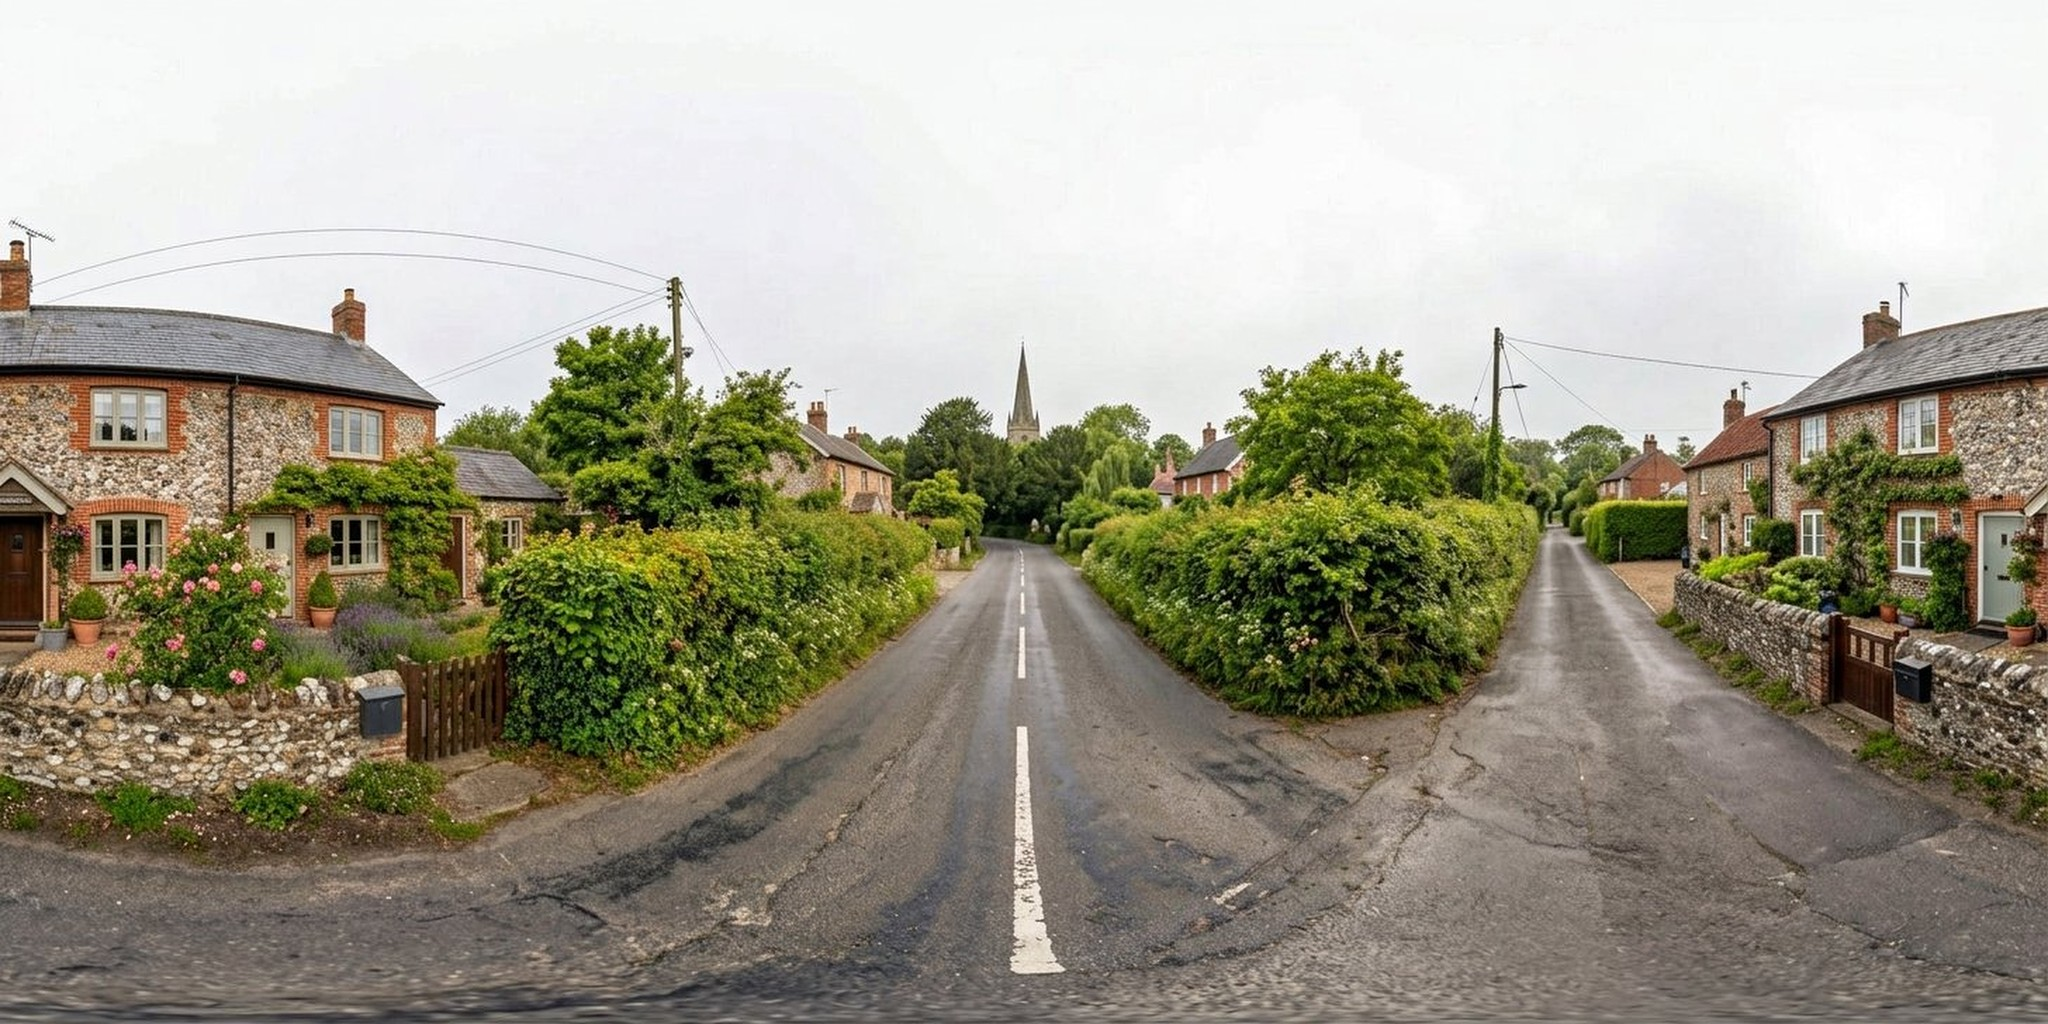
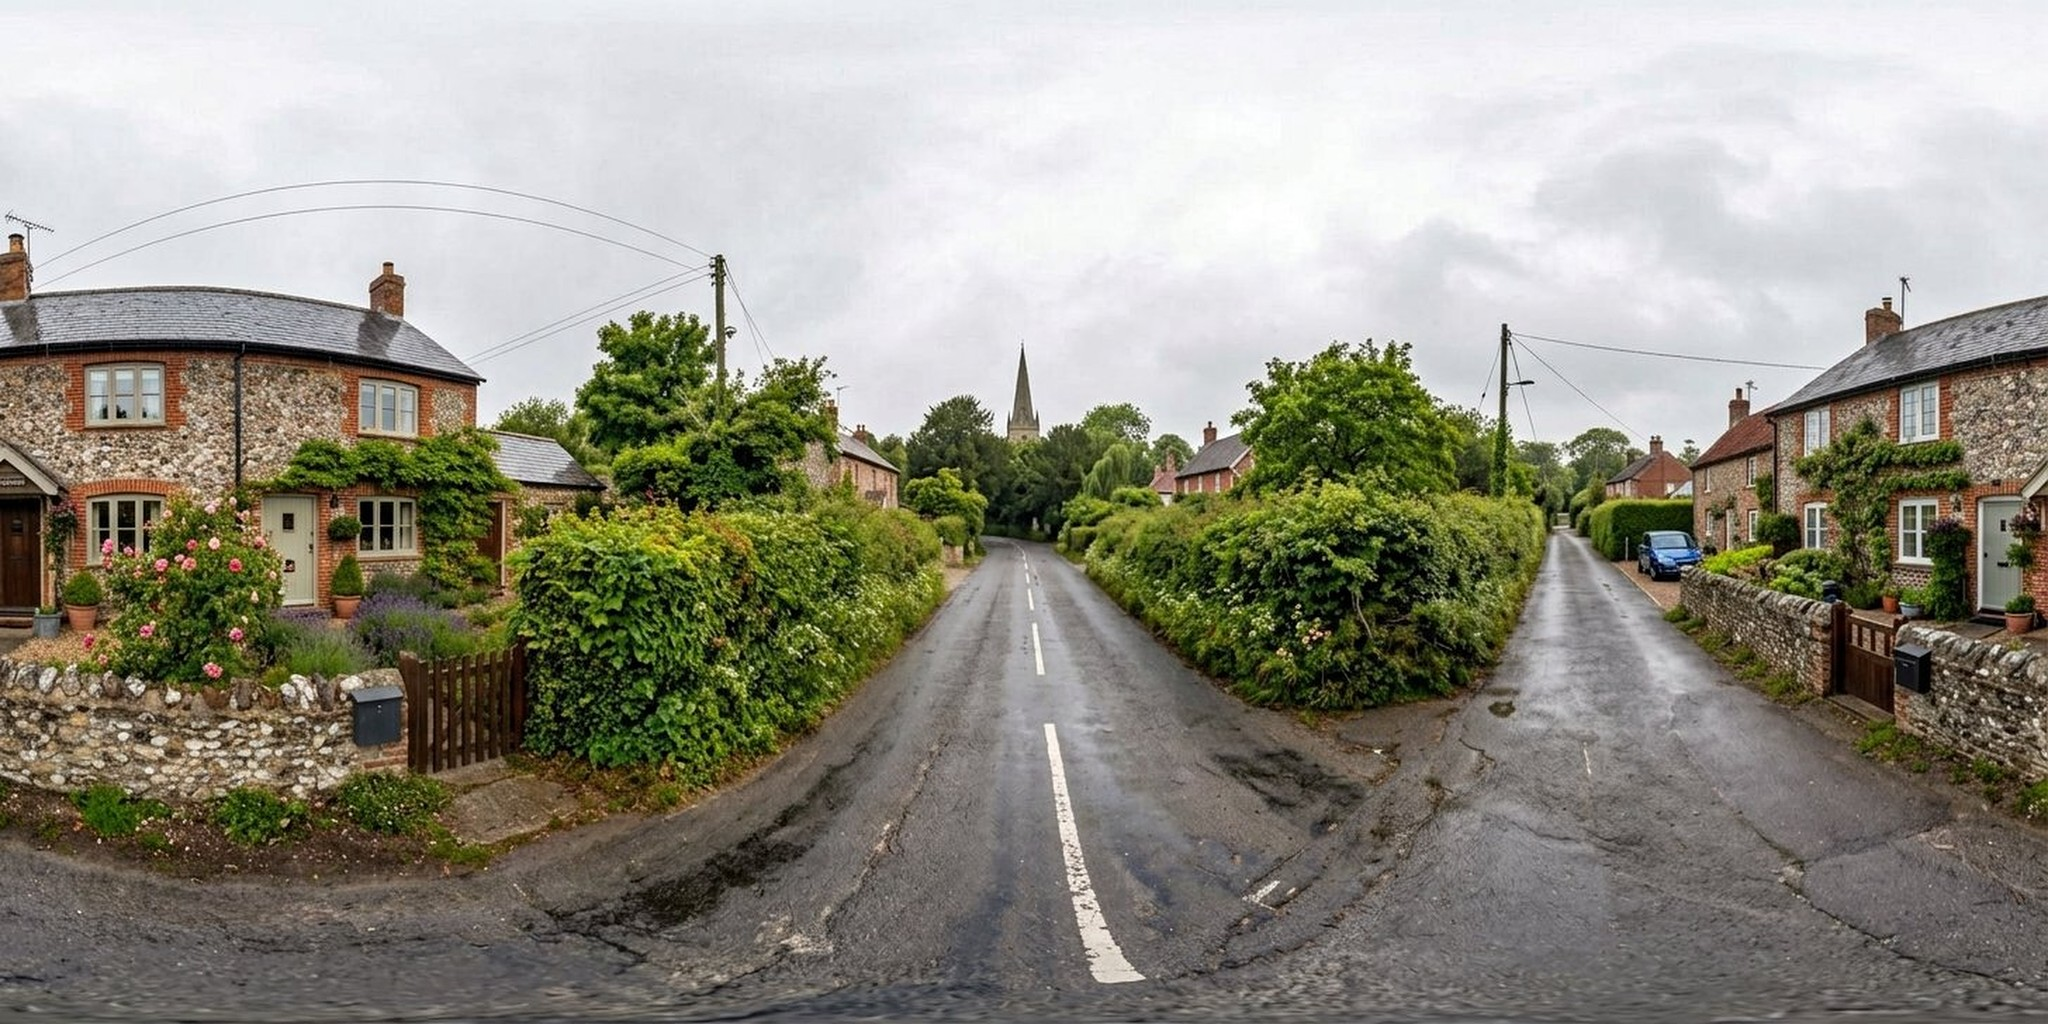
willow iteration 18: point-1 sub-strides restored, n244 re-fix, point-2 junction fill started

diff --git a/finx_genmap.md b/finx_genmap.md
@@ -39,6 +39,7 @@ parallax. Same overcast daylight, no people, no text."
 | 15 | point_correct_1 = n1 (willow_060, Willow Street 60 m) | S → n82; N → n114; W-A → West Bend chain | **7** | n162 (6.3 m S), n226 (7.5 m N), n244 (6.9 m W/A), n124 (6.9 m W ← n244), n245 (6.9 m E ← n44), n246 (6.9 m W ← n44), n247 (6.9 m E ← n13) | ✓ n244→n124 visual: same flint cottage/rose gate/spire, correct parallax |
 | 16 | ring cells around anchors n82/n59/n83/n35/n86/n36/n88 (streetside) + n246/n256/n312 (lane seams) | S chain ×7 + W seams ×2 + E seam ×1 | **10** | n125 (6.9 m W ← n246) — closes the n1–n13 seam; n130 (6.9 m W ← n256, Green Road); n158 (6.9 m E ← n312, Meadow Rise); n163 (6.3 m S ← n82), n164 (S ← n59), n165 (S ← n83), n166 (S ← n35), n171 (S ← n86), n174 (S ← n36), n175 (S ← n88) | ✓ n163←n82 visual: same willow, church tower, cottages. ⚠ n125 drifted to an open-meadow look — RE-CHECK against n246/n247 (regenerate if it offends) |
 | 17 | USER OVERRIDE: supersede ring-resume — go back to point_correct_1 and add MORE steps to the +x chains; PLUS user anti-drift audit command | 4 m sub-stride stage added to densify (637 nodes / 636 edges / max hop 3.75 m, all earlier imgs unchanged); OpenCV auditor `tools-render/chain-audit.py` (collapsed-branch walkable pairs: HSV correl + sky-band Δ + exposure Δ) ran over all frames: 145 pairs, worst breaks fixed | **10 regenerations** | n119←n117, n124←n246, n116←n115, n244←n1, n82←n162, n90←n62, n91←n63, n97←n66, n93←n64, n17←n78 | ✓ breaks n11↔n119 (−0.68), n124↔n245 (−0.32), n63↔n91, n82↔n162, n97-family all cleared. Residual offenders: n3↔n45 (−0.654), n9↔n116 (canopy-vs-open false-positive risk + palette), n1↔n244 (still −0.146, skyΔ 83 — regenerate n244 again next turn), n37↔n91, n4↔n94 |
+| 18 | finish audit-fix queue, then point_correct_2 (n2, green junction) +x fill | point-1 sub-strides restored + n244 re-fix with hard sky lock; point-2 north chain n335..n332 + west knot n510 | **10** | n320←n1, n321←n162, n322←n82, n323←n163 (3.1 m sub-strides); n244←n1 (re-fix #2); n335←n2, n334←n169, n333←n85, n332←n168 (point-2 north chain); n510←n2 (point-2 A-branch 3.4 m W) | ⚠ audit: n335 itself drifted (−0.29, skyΔ 74) — queued for pass 2; n320↔n162 flagged 0.06; n3↔n45 (−0.654) still open; rest normalized |
 
 ## Anti-drift rule (user directive, permanent)
 
@@ -60,4 +61,4 @@ parallax. Same overcast daylight, no people, no text."
 
 ## Cursor
 
-`anchor=point_correct_1 +x chains EXPANDED (4 m sub-strides live: hops now 3.1–3.75 m). Iteration 18 queue: (1) regenerate n320..n323 / n448..n451 / n486..n487 sub-stride frames [LOST in a workspace reset — 4 m graphs regenerated, frames still missing], (2) regenerate n244 AGAIN (audit still −0.146 vs n1; source n124-east family), (3) fix n3↔n45 (−0.654), n4↔n94, n37↔n91, (4) then resume ring scan. Report in tools-render/chain-audit.txt before/after.`
+`anchor=point_correct_2 (n2, green junction) +x fill IN PROGRESS. Iteration 19 queue: (1) re-fix n335 (its own edit drifted; try ←n169 with sky-lock), n320↔n162 (0.06) — re-generate n320 ← n162 instead of n1, (2) missing point-1 sub-strides n448..n451 / n486..n487 + n317/n318 (ring hole unlock), (3) fix remaining audit offenders n3↔n45 (−0.654), n4↔n94, n37↔n91, n169↔n335, (4) continue point-2 chains past n332/n339 (North/South Road) + n511..n513 (Green Road W), then resume ring scan. Report in tools-render/chain-audit.txt before/after.`
